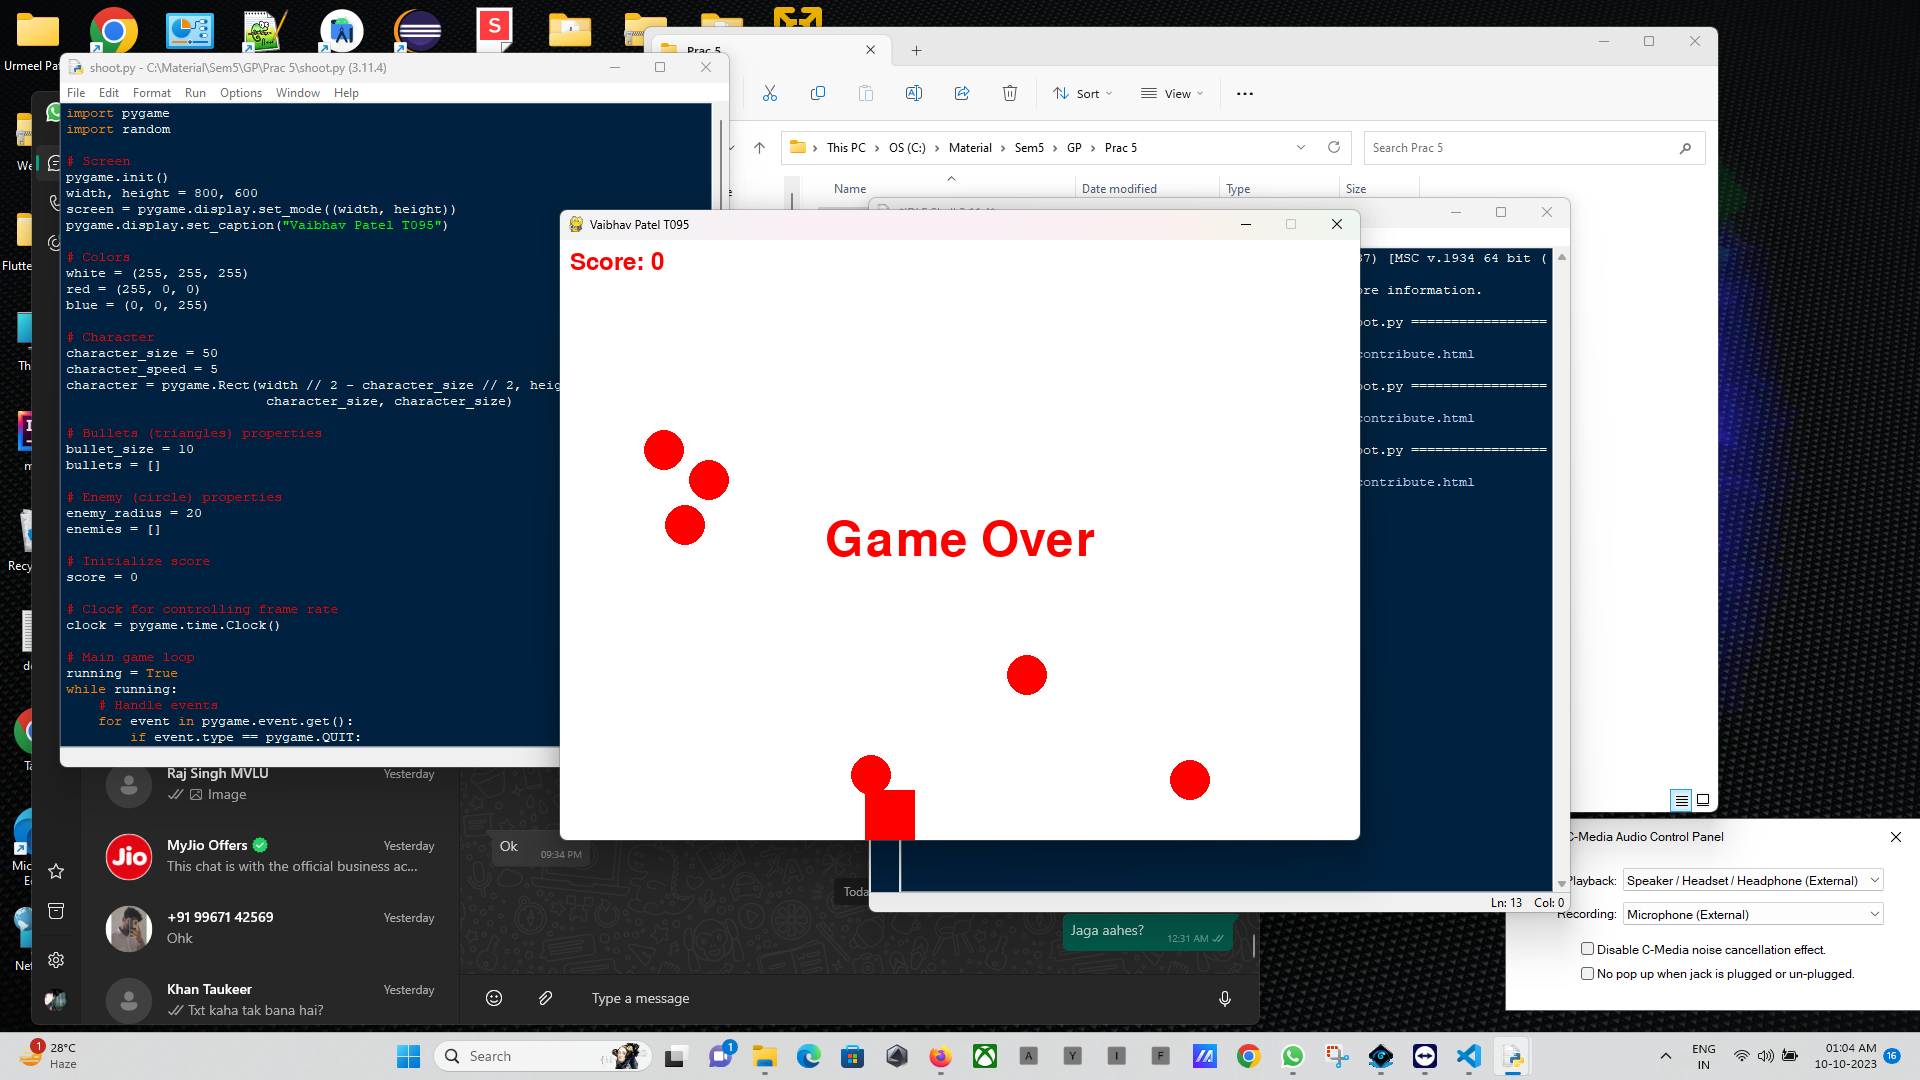
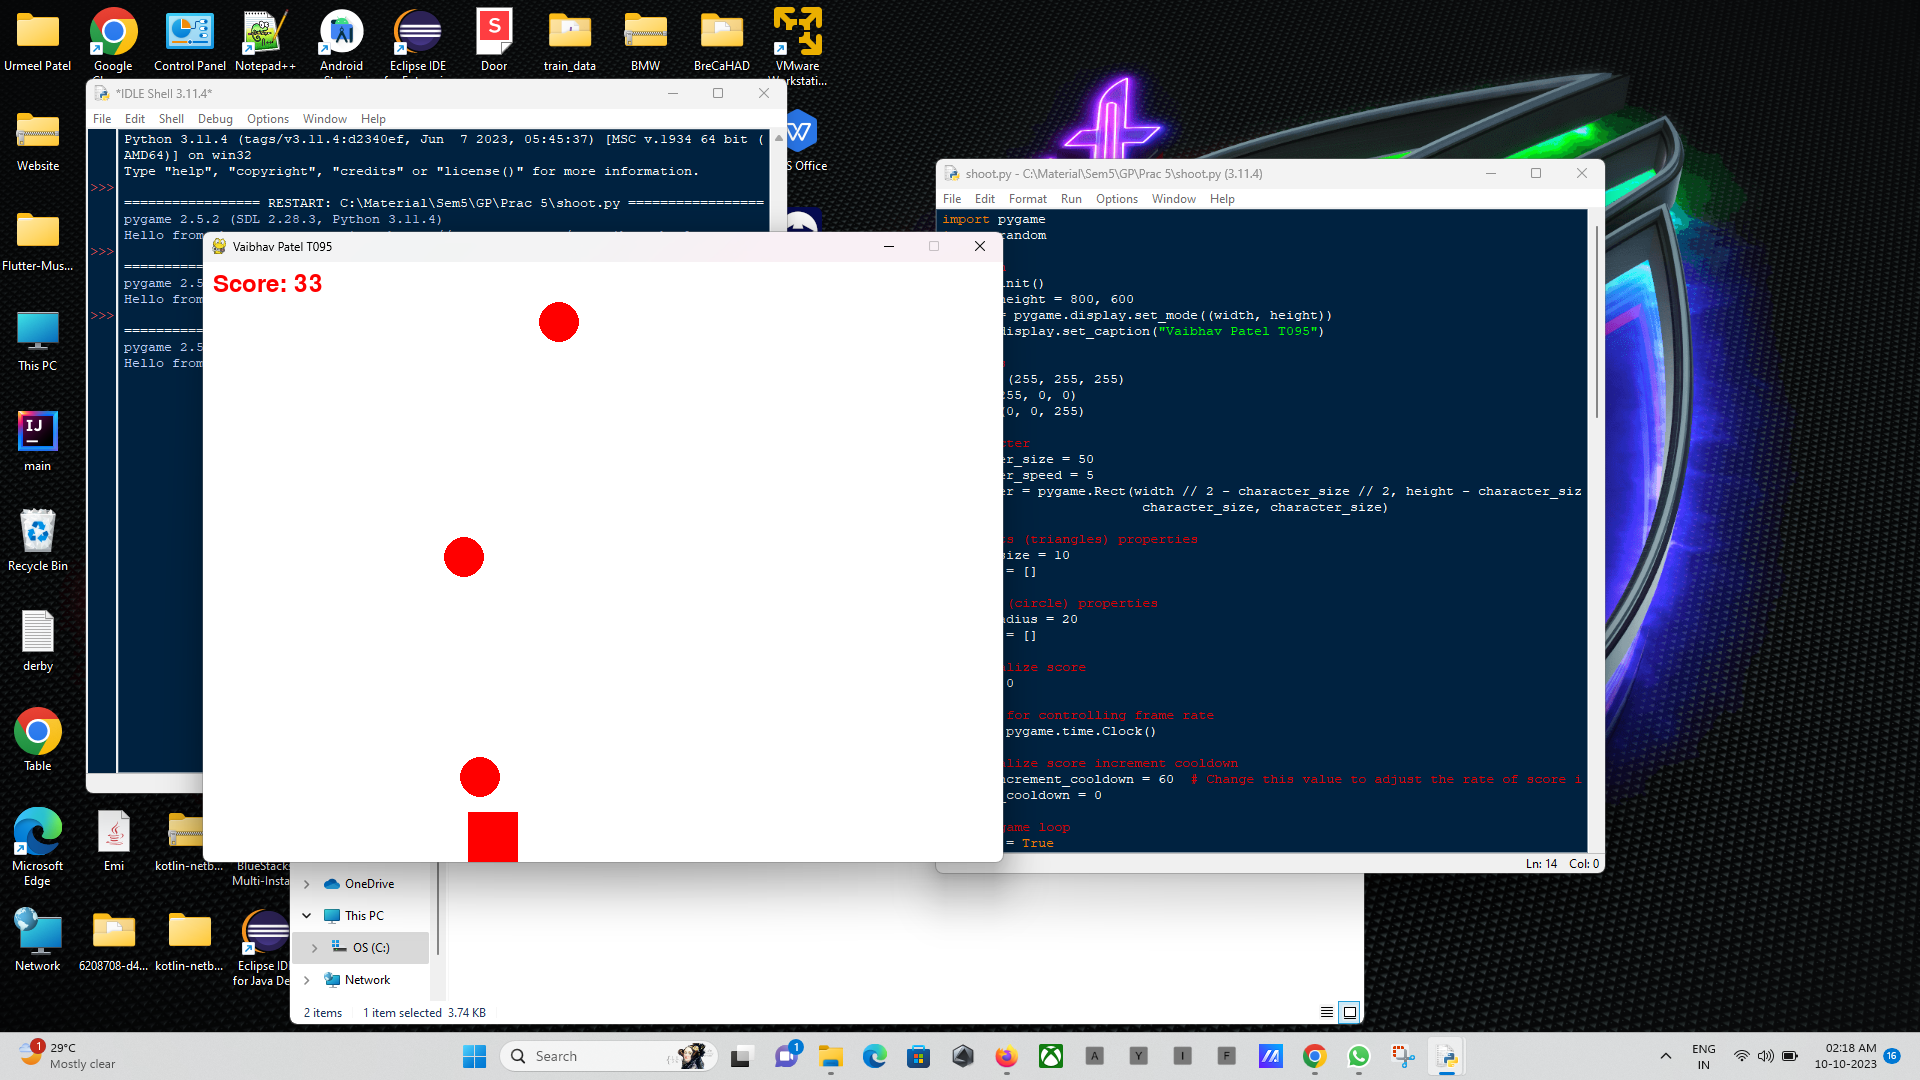
fixed the score not incrementing bug

diff --git a/Sem 5/GP/Prac 5/shoot.py b/Sem 5/GP/Prac 5/shoot.py
@@ -32,6 +32,10 @@ score = 0
 # Clock for controlling frame rate
 clock = pygame.time.Clock()
 
+# Initialize score increment cooldown
+score_increment_cooldown = 60  # Change this value to adjust the rate of score increment
+current_cooldown = 0
+
 # Main game loop
 running = True
 while running:
@@ -55,7 +59,7 @@ while running:
     if random.randint(1, 100) <= 2:
         enemy_x = random.randint(enemy_radius, width - enemy_radius)
         enemy = pygame.Rect(enemy_x - enemy_radius, 0, enemy_radius * 2,
-                           enemy_radius * 2)
+                            enemy_radius * 2)
         enemies.append(enemy)
 
     # Move enemies
@@ -63,6 +67,13 @@ while running:
         enemy.y += 5
         if enemy.top > height:
             enemies.remove(enemy)
+        else:
+            # Increment the score when the character successfully dodges an enemy
+            if current_cooldown == 0:
+                score += 1
+                current_cooldown = score_increment_cooldown
+            else:
+                current_cooldown -= 1
 
     # Move character
     keys = pygame.key.get_pressed()
@@ -76,8 +87,8 @@ while running:
         for enemy in enemies:
             if bullet.colliderect(enemy):
                 score += 1
-                bullets.remove(bullet)
                 enemies.remove(enemy)
+                bullets.remove(bullet)
 
     # Check for character collision with enemies
     for enemy in enemies:
